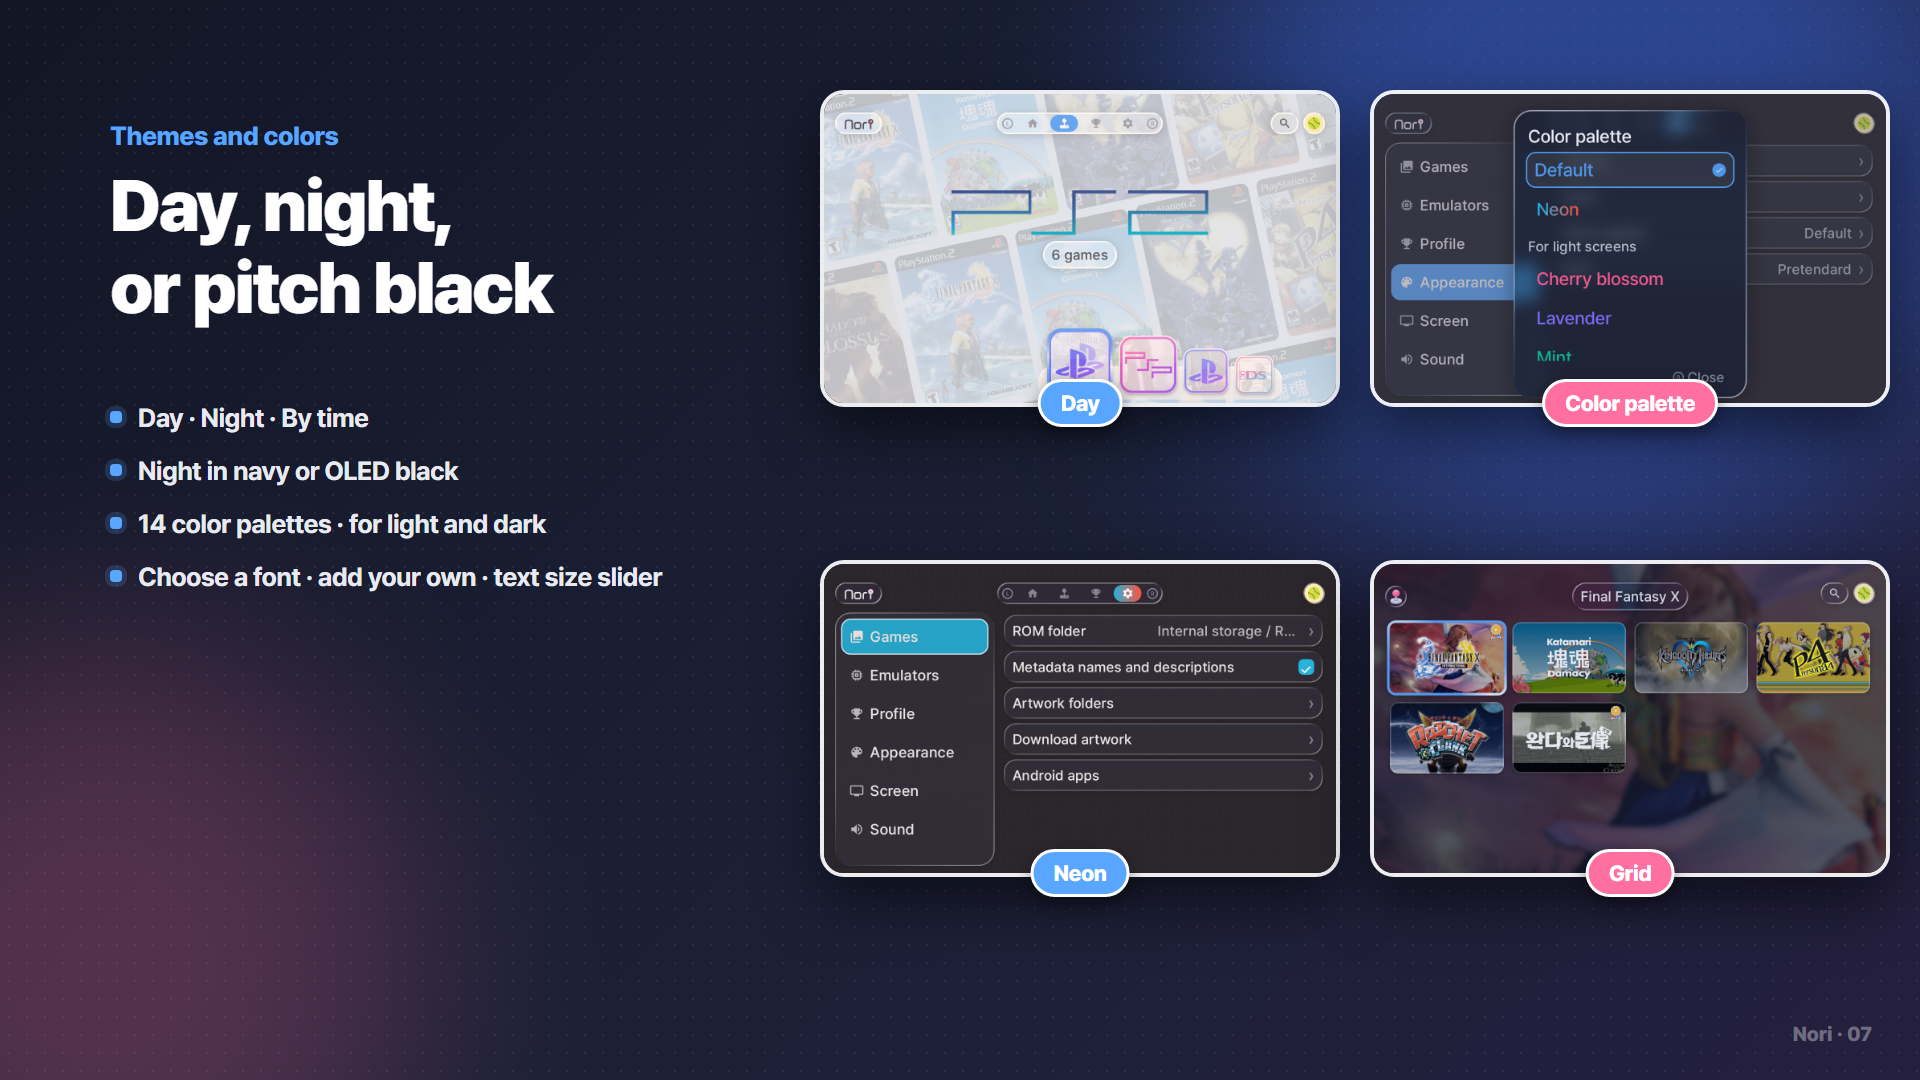
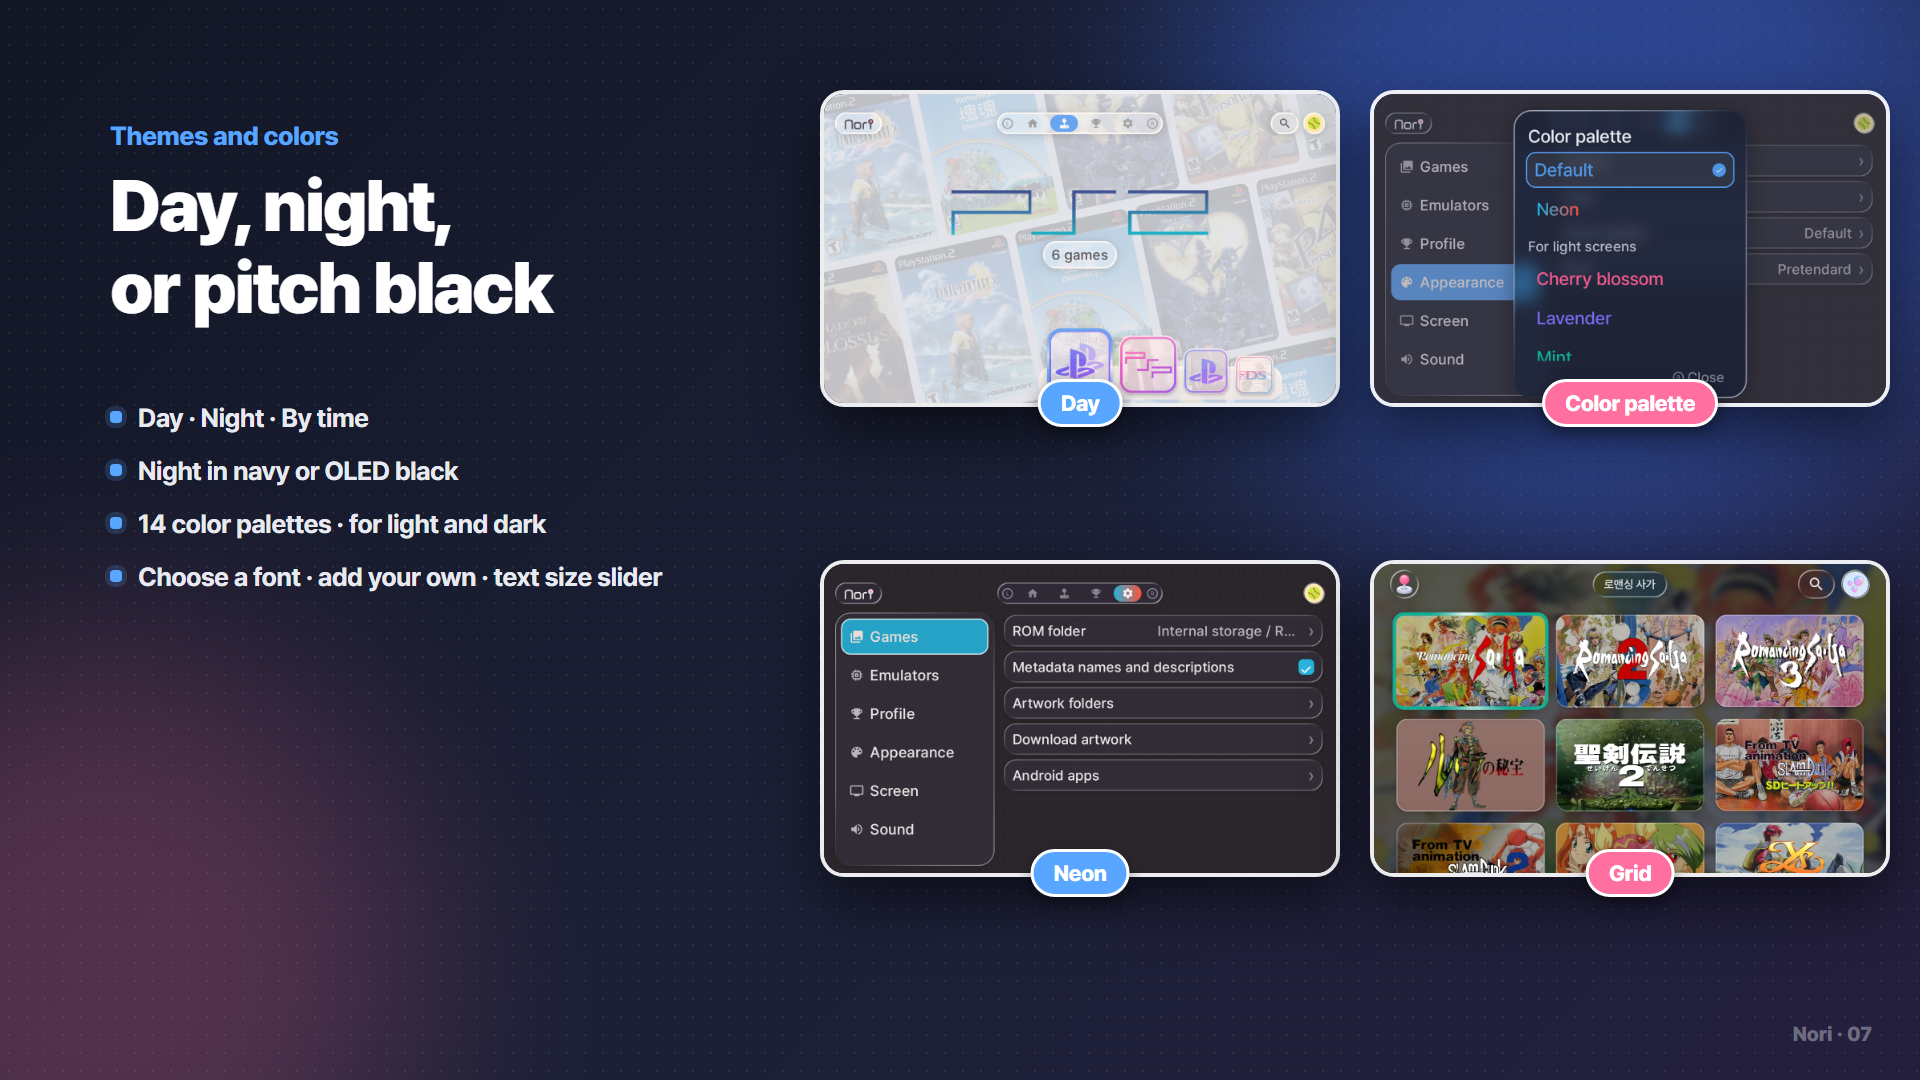
격자 테마 소개와 사진, 업적 수와 그림 문구 고침

Changed region(s): [[0.7188, 0.5194, 1.0, 0.825]]

diff --git a/README.en.md b/README.en.md
@@ -59,6 +59,11 @@ Choose a system in the system dock, then a game in the game dock. The game's bac
 
 ![Browsing](docs/images_en/03_library.png)
 
+### Grid theme
+Every tile shows a game's background with its logo, so you see many games at once. Even systems with mixed cover shapes stay tidy. Set 3 to 6 tiles per row in Quick settings.
+
+![Grid theme](docs/images_en/grid.png)
+
 ### Four themes
 One tap in Settings changes how you pick games, and each theme has its own background music.
 
@@ -87,7 +92,7 @@ Day, Night, or By time. Night comes in navy or OLED black, and the accent palett
 ![Themes and colors](docs/images_en/07_colors.png)
 
 ### Achievements and records
-443 built-in achievements (bronze, silver, gold), per-game play time and rankings, and yearly and monthly records. Link your RetroAchievements account and beaten games get a medal.
+508 built-in achievements (bronze, silver, gold), per-game play time and rankings, and yearly and monthly records. Link your RetroAchievements account and beaten games get a medal.
 
 ![Achievements and records](docs/images_en/08_achievements.png)
 

diff --git a/README.md b/README.md
@@ -56,6 +56,11 @@
 
 ![게임 고르기](docs/images/03_library.png)
 
+### 격자 테마
+칸마다 게임 배경에 로고를 얹어 여러 게임을 한 화면에 보여 줍니다. 표지 모양이 제각각인 기기도 칸이 고르게 정리됩니다. 한 줄 칸 수는 빠른 설정에서 3~6칸으로 바꿉니다.
+
+![격자 테마](docs/images/grid.png)
+
 ### 테마 네 가지
 설정에서 카드 하나만 누르면 게임 고르는 화면이 바뀝니다. 테마마다 어울리는 배경음악도 따로 붙어 있습니다.
 
@@ -84,7 +89,7 @@
 ![낮·밤 화면과 색](docs/images/07_colors.png)
 
 ### 업적과 기록
-업적 443개(동·은·금), 게임별 플레이 시간과 순위, 해마다·달마다 기록이 쌓입니다. RetroAchievements 계정을 연결하면 클리어한 게임에 메달이 붙습니다.
+업적 508개(동·은·금), 게임별 플레이 시간과 순위, 해마다·달마다 기록이 쌓입니다. RetroAchievements 계정을 연결하면 클리어한 게임에 메달이 붙습니다.
 
 ![업적과 기록](docs/images/08_achievements.png)
 
